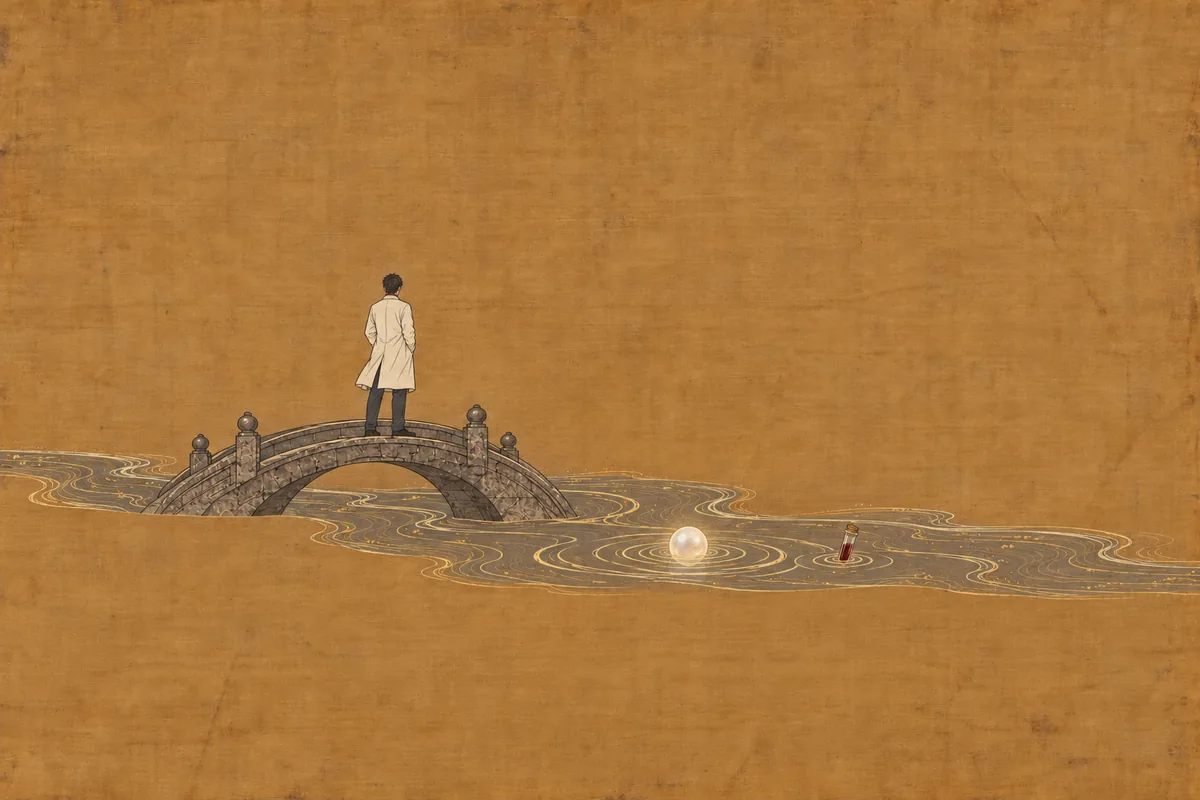
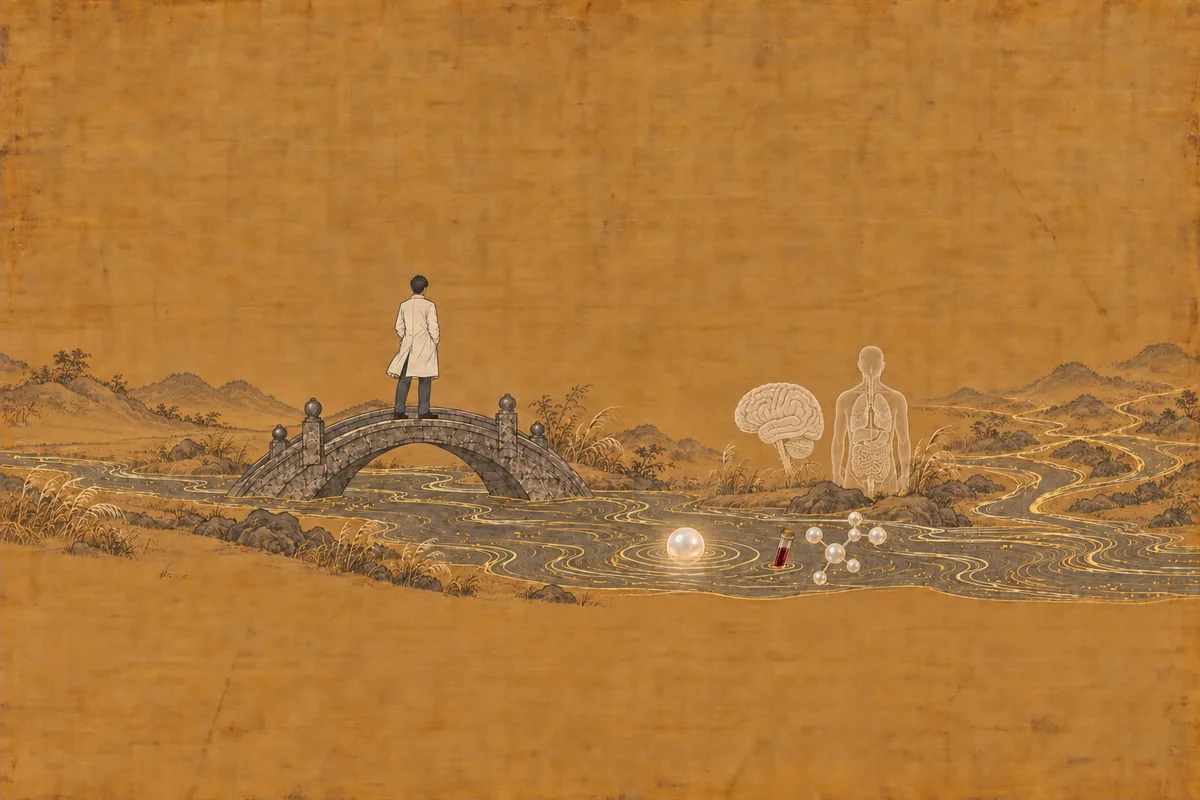
Six scales in the hero film and fuller paper paintings
The film now runs species, population, individual, tissue, cell and molecule,
then the brain and the network. A missing painting falls back to the species
painting so the film never drops to the static hero. Paper bands use the
repainted, fuller Tang scenes.

Changed region(s): [[0.0, 0.3438, 1.0, 0.7812]]

diff --git a/film.js b/film.js
@@ -113,13 +113,15 @@
   // baseline offset from the painting's centre (fraction of its height) and where the drawn line ends
   var LAY = TANG ? { base: 0.2382, right: 0.49 } : { base: 0.4576, right: 0.487 };
   var SOURCES = [
-    { src: 'assets/img/' + ART + 'lineup.webp?v=t3', boostTo: 0.22, boost: 2.6 },   // the small animals get more points than their area would earn
-    { src: 'assets/img/' + ART + (TANG ? 'brain' : 'species') + '.webp?v=t3' },   // Tang: the brain among the longest-lived species
-    { src: 'assets/img/' + ART + 'human.webp?v=t3' },
-    { src: 'assets/img/' + ART + 'tissue.webp?v=t3' },
-    { src: 'assets/img/' + ART + 'cell.webp?v=t3' },
-    { src: 'assets/img/' + ART + 'molecule.webp?v=t3' }
+    { src: 'assets/img/' + ART + 'lineup.webp?v=t5', boostTo: 0.22, boost: 2.6 },   // the small animals get more points than their area would earn
+    { src: 'assets/img/' + ART + (TANG ? 'population' : 'species') + '.webp?v=t5' },
+    { src: 'assets/img/' + ART + 'human.webp?v=t5' },
+    { src: 'assets/img/' + ART + 'tissue.webp?v=t5' },
+    { src: 'assets/img/' + ART + 'cell.webp?v=t5' },
+    { src: 'assets/img/' + ART + 'molecule.webp?v=t5' },
+    { src: 'assets/img/' + ART + (TANG ? 'brain' : 'species') + '.webp?v=t5' }   // the brain among the longest-lived species
   ];
+  var NP = SOURCES.length;   // paintings; the network is stage NP
 
   /* The road. p is scroll progress through the hero, 0..1. Three perspectives, each passed through quickly:
      species (one sweep along the procession), scales (the points re-form from species to molecule) and the model
@@ -127,21 +129,21 @@
   var STOPS = [
     { p: 0.00, x: 0.50, z: 1.00 },
     { p: 0.04, x: 0.50, z: 1.00 },
-    { p: 0.10, x: 0.10, z: 1.75 },
-    { p: 0.27, x: 0.92, z: 1.75 },
-    { p: 0.32, x: 0.50, z: 1.00 },
+    { p: 0.09, x: 0.10, z: 1.75 },
+    { p: 0.24, x: 0.92, z: 1.75 },
+    { p: 0.29, x: 0.50, z: 1.00 },
     { p: 1.00, x: 0.50, z: 1.00 }
   ];
   // Which drawing the points hold: [p, stage]. 0 procession, 1-5 species to molecule, 6 the network.
-  var STAGE = [[0, 0], [0.33, 0], [0.37, 1], [0.44, 1], [0.48, 2], [0.50, 2], [0.54, 3], [0.56, 3], [0.60, 4], [0.62, 4], [0.66, 5], [0.68, 5], [0.73, 6], [1, 6]];
+  var STAGE = [[0, 0], [0.29, 0], [0.33, 1], [0.37, 1], [0.41, 2], [0.43, 2], [0.47, 3], [0.49, 3], [0.53, 4], [0.55, 4], [0.59, 5], [0.61, 5], [0.65, 6], [0.71, 6], [0.75, 7], [1, 7]];
   var BEATS = [
-    { p: 0.185, name: 'Across species', sub: 'Maximum lifespan spans more than a hundredfold, from a 4-year mouse to a 507-year ocean quahog', w: 0.09 },
-    { p: 0.405, name: 'Brain resilience', sub: 'The longest-lived species may have the most resilient brains', w: 0.045 },
-    { p: 0.58, name: 'Across scales', sub: 'Human &nbsp;/&nbsp; tissue &nbsp;/&nbsp; cell &nbsp;/&nbsp; molecule', w: 0.11 },
-    { p: 0.785, name: 'AI that does research', sub: 'Models and agents that learn from every species and scale, and propose what to test', w: 0.05, last: true }
+    { p: 0.165, name: 'Across species', sub: 'Maximum lifespan spans more than a hundredfold, from a 4-year mouse to a 507-year ocean quahog', w: 0.085 },
+    { p: 0.45, name: 'Across scales', sub: 'Species &nbsp;/&nbsp; population &nbsp;/&nbsp; individual &nbsp;/&nbsp; tissue &nbsp;/&nbsp; cell &nbsp;/&nbsp; molecule', w: 0.15 },
+    { p: 0.68, name: 'Brain resilience', sub: 'The longest-lived species may have the most resilient brains', w: 0.035 },
+    { p: 0.80, name: 'AI that does research', sub: 'Models and agents that learn from every species and scale, and propose what to test', w: 0.04, last: true }
   ];
   var PEND = 0.30;
-  var SOAK_FROM = 0.84, SOAK_TO = 0.95;
+  var SOAK_FROM = 0.86, SOAK_TO = 0.96;
 
   function ease(t) { return t < 0.5 ? 4 * t * t * t : 1 - Math.pow(-2 * t + 2, 3) / 2; }
   function camera(p) {
@@ -160,7 +162,7 @@
         return a[1] + (b[1] - a[1]) * clamp((p - a[0]) / (b[0] - a[0] || 1), 0, 1);
       }
     }
-    return 6;
+    return NP;
   }
 
   /* ---- programs ---- */
@@ -222,23 +224,23 @@
   // The points. Each carries its place in all six drawings and moves between them.
   var points = program(
     ['precision highp float;',
-      'attribute vec4 aA, aB, aC, aR, aK0, aK1, aK2, aK3, aK4, aK5; attribute vec2 aN;',
+      'attribute vec4 aA, aB, aC, aR, aK0, aK1, aK2, aK3, aK4, aK5, aK6; attribute vec2 aD, aN;',
       'uniform vec2 uRes, uOff0, uOffC, uMouse;',
       'uniform float uSc0, uScC, uS, uTime, uIntro, uPix, uFade, uSize, uBurst; uniform vec3 uFlight, uNetCol; uniform vec2 uOffN; uniform float uScN;',
       'varying float vAlpha; varying vec3 vCol;',
       'void main(){',
       '  vec2 p0 = aA.xy*uSc0 + uOff0;',
-      '  vec2 p1 = aA.zw*uScC + uOffC, p2 = aB.xy*uScC + uOffC, p3 = aB.zw*uScC + uOffC, p4 = aC.xy*uScC + uOffC, p5 = aC.zw*uScC + uOffC, p6 = aN*uScN + uOffN;',
+      '  vec2 p1 = aA.zw*uScC + uOffC, p2 = aB.xy*uScC + uOffC, p3 = aB.zw*uScC + uOffC, p4 = aC.xy*uScC + uOffC, p5 = aC.zw*uScC + uOffC, p6 = aD*uScC + uOffC, p7 = aN*uScN + uOffN;',
       // each point leaves and arrives on its own clock, so a drawing dissolves and gathers rather than slides
       '  float i = floor(uS); float t = uS - i;',
       '  float tt = smoothstep(aR.x*0.5, 0.5 + aR.x*0.5, t);',
       '  tt = tt*tt*(3.0-2.0*tt);',
       '  float s = i + tt;',
       '  vec2 pos = p0*max(0.0, 1.0-abs(s)) + p1*max(0.0, 1.0-abs(s-1.0)) + p2*max(0.0, 1.0-abs(s-2.0))',
-      '           + p3*max(0.0, 1.0-abs(s-3.0)) + p4*max(0.0, 1.0-abs(s-4.0)) + p5*max(0.0, 1.0-abs(s-5.0)) + p6*max(0.0, 1.0-abs(s-6.0));',
+      '           + p3*max(0.0, 1.0-abs(s-3.0)) + p4*max(0.0, 1.0-abs(s-4.0)) + p5*max(0.0, 1.0-abs(s-5.0)) + p6*max(0.0, 1.0-abs(s-6.0)) + p7*max(0.0, 1.0-abs(s-7.0));',
       '  float mid = sin(3.14159*tt);',
       '  vCol = aK0.rgb*max(0.0, 1.0-abs(s)) + aK1.rgb*max(0.0, 1.0-abs(s-1.0)) + aK2.rgb*max(0.0, 1.0-abs(s-2.0))',
-      '       + aK3.rgb*max(0.0, 1.0-abs(s-3.0)) + aK4.rgb*max(0.0, 1.0-abs(s-4.0)) + aK5.rgb*max(0.0, 1.0-abs(s-5.0)) + uNetCol*max(0.0, 1.0-abs(s-6.0));',
+      '       + aK3.rgb*max(0.0, 1.0-abs(s-3.0)) + aK4.rgb*max(0.0, 1.0-abs(s-4.0)) + aK5.rgb*max(0.0, 1.0-abs(s-5.0)) + aK6.rgb*max(0.0, 1.0-abs(s-6.0)) + uNetCol*max(0.0, 1.0-abs(s-7.0));',
       // in flight a point lightens toward the colour of paper, so a dissolve reads as light, then settles into paint
       '  vCol = mix(vCol, uFlight, mid*0.55);',
       // in flight the points ride a slow turning current
@@ -278,9 +280,10 @@
   gl.bufferData(gl.ARRAY_BUFFER, new Float32Array([-1, -1, 3, -1, -1, 3]), gl.STATIC_DRAW);
   var pbuf = gl.createBuffer(), cbuf = gl.createBuffer(), nbuf = gl.createBuffer();
   var gA = gl.getAttribLocation(ground, 'a');
-  var pA = ['aA', 'aB', 'aC', 'aR'].map(function (n) { return gl.getAttribLocation(points, n); });
+  // per point: seven painting positions (14 floats) and four random numbers, 18 floats in all
+  var pA = [['aA', 4, 0], ['aB', 4, 16], ['aC', 4, 32], ['aD', 2, 48], ['aR', 4, 56]].map(function (d) { return { loc: gl.getAttribLocation(points, d[0]), size: d[1], off: d[2] }; });
   var nA = gl.getAttribLocation(points, 'aN');
-  var cA = ['aK0', 'aK1', 'aK2', 'aK3', 'aK4', 'aK5'].map(function (n) { return gl.getAttribLocation(points, n); });
+  var cA = ['aK0', 'aK1', 'aK2', 'aK3', 'aK4', 'aK5', 'aK6'].map(function (n) { return gl.getAttribLocation(points, n); });
 
   /* ---- sample the drawings into point positions ---- */
 
@@ -314,21 +317,26 @@
 
   var ready = false, introStart = 0;
   Promise.all(SOURCES.map(function (s) {
-    return new Promise(function (res, rej) { var im = new Image(); im.onload = function () { res(im); }; im.onerror = rej; im.src = s.src; });
+    // a missing painting falls back to the species painting, so the film never drops to the static hero
+    return new Promise(function (res, rej) {
+      var im = new Image(); im.onload = function () { res(im); };
+      im.onerror = function () { if (s.fallback || !/population|brain/.test(s.src)) { rej(); return; } s.fallback = true; im.src = 'assets/img/' + ART + 'species.webp?v=t5'; };
+      im.src = s.src;
+    });
   })).then(function (imgs) {
     var sets = imgs.map(function (im, i) { return sample(im, SOURCES[i]); });
     aspect0 = sets[0].aspect;
     // Points are paired at random between drawings, so each change is a dissolve and not a slide.
-    var data = new Float32Array(N * 16);
+    var data = new Float32Array(N * 18);
     for (var n = 0; n < N; n++) {
-      var o = n * 16;
-      for (var k = 0; k < 6; k++) { data[o + k * 2] = sets[k].pos[n * 2]; data[o + k * 2 + 1] = sets[k].pos[n * 2 + 1]; }
-      data[o + 12] = rnd(); data[o + 13] = rnd(); data[o + 14] = rnd(); data[o + 15] = rnd();
+      var o = n * 18;
+      for (var k = 0; k < NP; k++) { data[o + k * 2] = sets[k].pos[n * 2]; data[o + k * 2 + 1] = sets[k].pos[n * 2 + 1]; }
+      data[o + 14] = rnd(); data[o + 15] = rnd(); data[o + 16] = rnd(); data[o + 17] = rnd();
     }
     gl.bindBuffer(gl.ARRAY_BUFFER, pbuf); gl.bufferData(gl.ARRAY_BUFFER, data, gl.STATIC_DRAW);
-    // Each point also carries its colour in all six paintings.
-    var cols = new Uint8Array(N * 24);
-    for (var n2 = 0; n2 < N; n2++) for (var k2 = 0; k2 < 6; k2++) cols.set(sets[k2].col.subarray(n2 * 4, n2 * 4 + 4), n2 * 24 + k2 * 4);
+    // Each point also carries its colour in all seven paintings.
+    var cols = new Uint8Array(N * 28);
+    for (var n2 = 0; n2 < N; n2++) for (var k2 = 0; k2 < NP; k2++) cols.set(sets[k2].col.subarray(n2 * 4, n2 * 4 + 4), n2 * 28 + k2 * 4);
     gl.bindBuffer(gl.ARRAY_BUFFER, cbuf); gl.bufferData(gl.ARRAY_BUFFER, cols, gl.STATIC_DRAW);
     // The last drawing is the model itself: a layered network. Points sit on its nodes and along its edges.
     var LAYERS = [6, 9, 9, 6, 1], nodes = [];
@@ -417,9 +425,9 @@
     gl.enable(gl.BLEND); gl.blendFunc(gl.SRC_ALPHA, gl.ONE_MINUS_SRC_ALPHA);
     gl.useProgram(points);
     gl.bindBuffer(gl.ARRAY_BUFFER, pbuf);
-    for (var a = 0; a < 4; a++) { gl.enableVertexAttribArray(pA[a]); gl.vertexAttribPointer(pA[a], 4, gl.FLOAT, false, 64, a * 16); }
+    pA.forEach(function (d) { if (d.loc < 0) return; gl.enableVertexAttribArray(d.loc); gl.vertexAttribPointer(d.loc, d.size, gl.FLOAT, false, 72, d.off); });
     gl.bindBuffer(gl.ARRAY_BUFFER, cbuf);
-    for (var c6 = 0; c6 < 6; c6++) { if (cA[c6] < 0) continue; gl.enableVertexAttribArray(cA[c6]); gl.vertexAttribPointer(cA[c6], 4, gl.UNSIGNED_BYTE, true, 24, c6 * 4); }
+    for (var c6 = 0; c6 < NP; c6++) { if (cA[c6] < 0) continue; gl.enableVertexAttribArray(cA[c6]); gl.vertexAttribPointer(cA[c6], 4, gl.UNSIGNED_BYTE, true, 28, c6 * 4); }
     gl.bindBuffer(gl.ARRAY_BUFFER, nbuf); if (nA >= 0) { gl.enableVertexAttribArray(nA); gl.vertexAttribPointer(nA, 2, gl.FLOAT, false, 8, 0); }
     gl.uniform3f(PU.uNetCol, TANG ? 0.18 : 0.11, TANG ? 0.12 : 0.11, TANG ? 0.06 : 0.10);
     gl.uniform2f(PU.uOffN, W * (wide ? 0.66 : 0.5), H * (wide ? 0.52 : 0.66)); gl.uniform1f(PU.uScN, wide ? H * 0.5 : Math.min(H * 0.34, W * 0.5));

diff --git a/main.js b/main.js
@@ -236,7 +236,7 @@
     var band = h('button', 'pub-band'); band.type = 'button';
     var art = TANGART && p.img ? p.img.replace('assets/img/paper-', 'assets/img/tang-paper-') : p.img;
     p.art = art;
-    if (art) band.style.backgroundImage = 'url(' + art.replace('.webp', '-wide.webp') + '?v=t3), url(' + art + '?v=t3)';
+    if (art) band.style.backgroundImage = 'url(' + art.replace('.webp', '-wide.webp') + '?v=t4), url(' + art + '?v=t4)';
     var plate = h('span', 'pub-plate');
     plate.appendChild(h('span', 'pub-meta', p.venue + ' · ' + p.year + (p.preprint ? ' · Preprint' : '')));
     plate.appendChild(h('span', 'pub-title', p.title));
@@ -252,7 +252,7 @@
   });
   function openPub(p) {
     if (!dlg) { window.open(p.url, '_blank', 'noopener'); return; }
-    dlg.querySelector('.pd-img').src = p.art ? p.art + '?v=t3' : '';
+    dlg.querySelector('.pd-img').src = p.art ? p.art + '?v=t4' : '';
     dlg.querySelector('.pd-meta').textContent = p.venue + ' · ' + p.year + (p.preprint ? ' · Preprint' : '');
     dlg.querySelector('.pd-title').textContent = p.title;
     var au = dlg.querySelector('.pd-authors'); au.textContent = '';

diff --git a/index.html b/index.html
@@ -14,7 +14,7 @@
 <link rel="canonical" href="https://lab.kejunying.com/">
 <meta name="theme-color" content="#0a53a3">
 <link rel="icon" href="assets/favicon.svg" type="image/svg+xml">
-<link rel="stylesheet" href="styles.css?v=20261014t">
+<link rel="stylesheet" href="styles.css?v=20261014u">
 <script>document.documentElement.classList.add('js');(function(){var a=new URLSearchParams(location.search).get('art');if(a!=='uk')document.documentElement.setAttribute('data-art','tang');})();</script>
 </head>
 <body>
@@ -290,9 +290,9 @@
   </div>
   <button class="pd-close" type="button" aria-label="Close">&times;</button>
 </dialog>
-<script src="assets/species.js?v=20261014t"></script>
-<script src="data.js?v=20261014t"></script>
-<script src="main.js?v=20261014t"></script>
-<script src="film.js?v=20261014t"></script>
+<script src="assets/species.js?v=20261014u"></script>
+<script src="data.js?v=20261014u"></script>
+<script src="main.js?v=20261014u"></script>
+<script src="film.js?v=20261014u"></script>
 </body>
 </html>

diff --git a/styles.css b/styles.css
@@ -336,7 +336,7 @@ html[data-art="tang"] .nav .mark { color: #1d1c19; --mark-in: #a8784a; }
 /* ---------- Hero film: a pinned WebGL scene driven by scroll ---------- */
 .film, .scroll-cue, .film-cap { display: none; }
 .hero .stage { display: contents; }
-.hero.is-film { height: 700vh; min-height: 0; padding: 0; display: block; overflow: visible; background: var(--blue); }
+.hero.is-film { height: 780vh; min-height: 0; padding: 0; display: block; overflow: visible; background: var(--blue); }
 .hero.is-film .stage { position: sticky; top: 0; height: 100vh; height: 100svh; overflow: hidden; display: flex; flex-direction: column; padding-top: clamp(112px, 17vh, 176px); padding-bottom: clamp(28px, 5vh, 56px); }
 .hero.is-film .film { display: block; position: absolute; inset: 0; width: 100%; height: 100%; z-index: 0; }
 .hero.is-film .hero-copy, .hero.is-film .hero-foot { z-index: 2; will-change: opacity, transform; }
